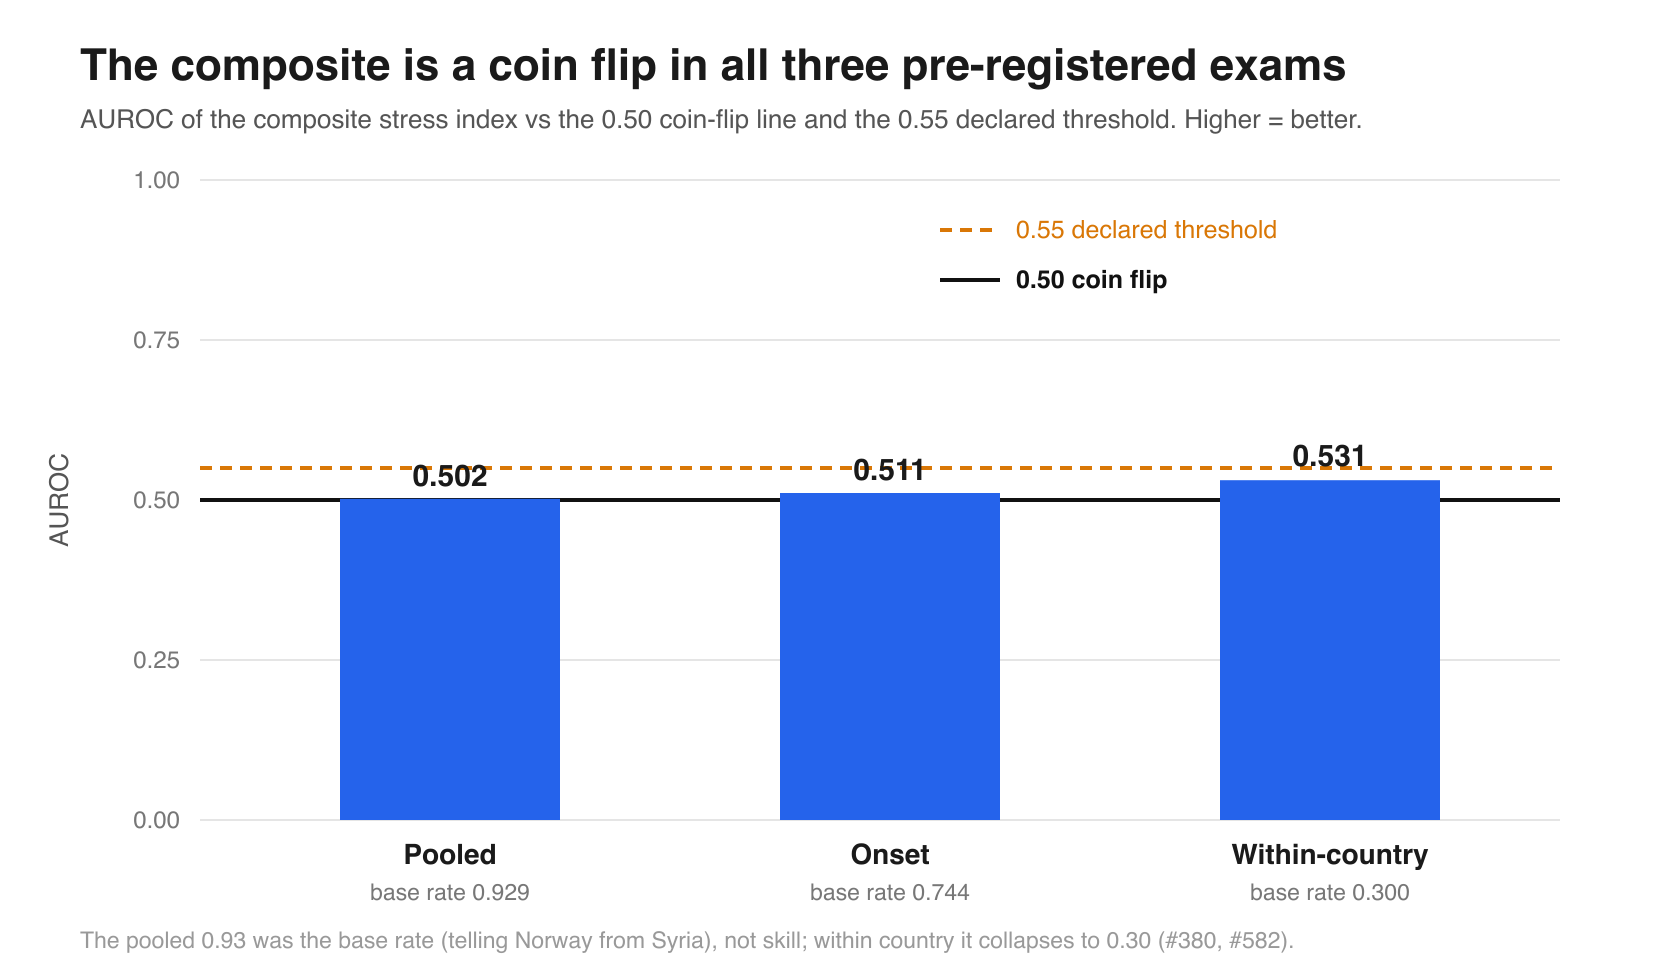
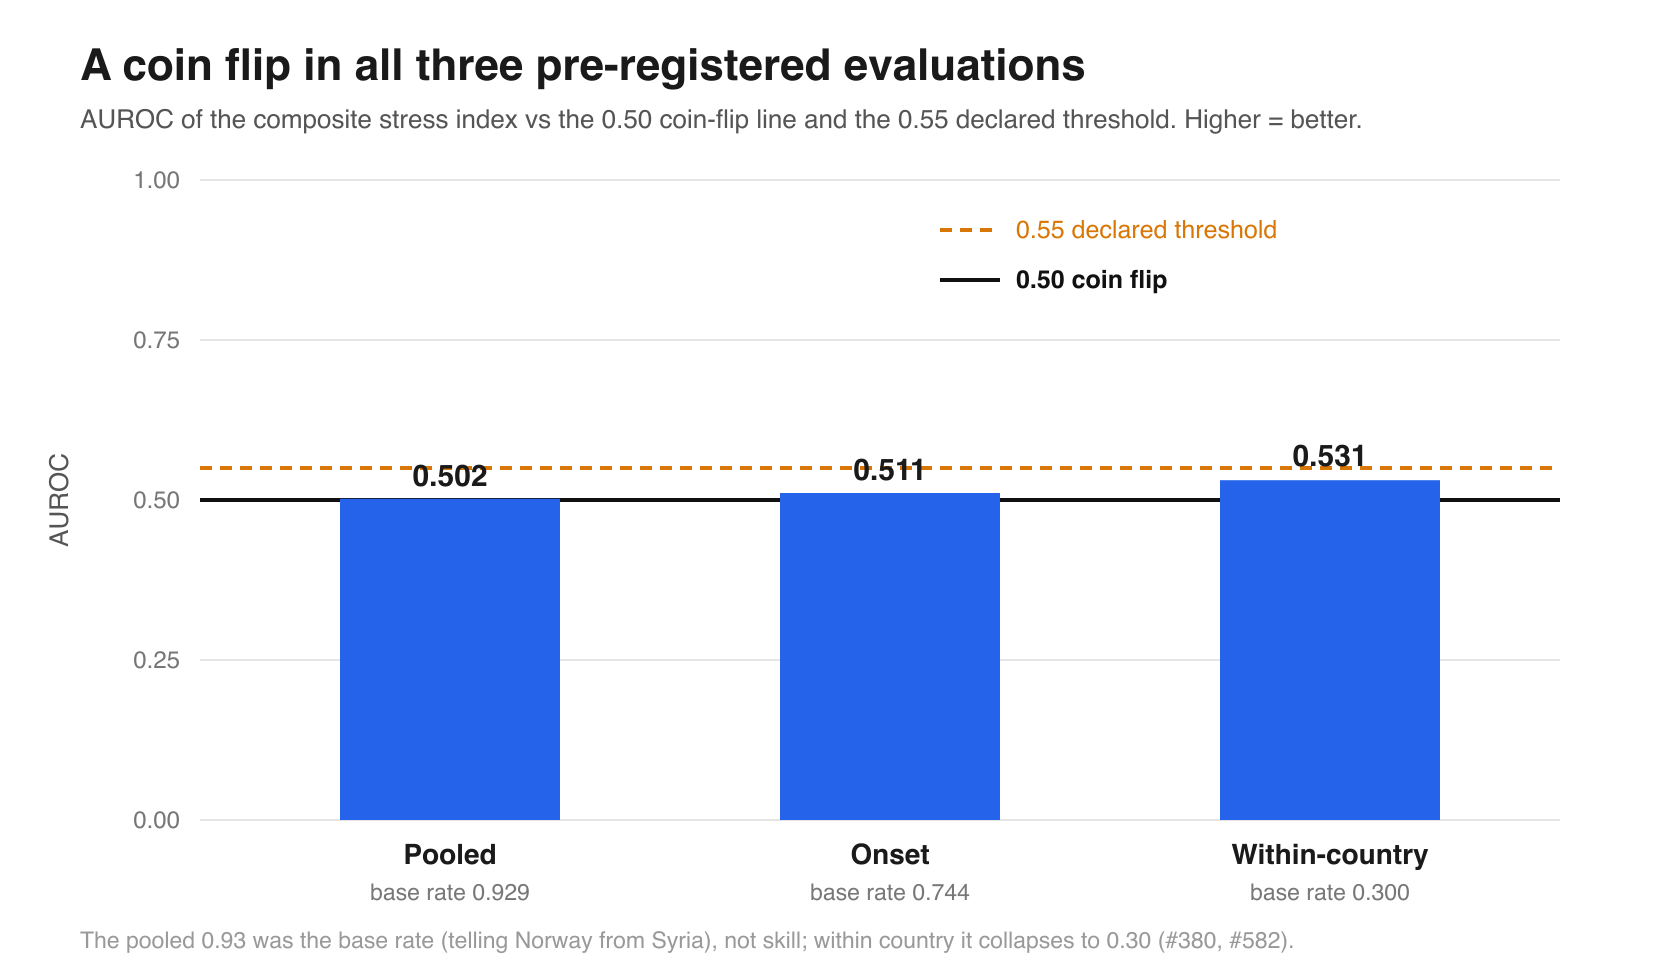
docs: #627 strip thesis/university/viva/deadline framing from the README
Reads as a systems project now, not a thesis appendix. Removed: MSc / PX5928 /
University of Aberdeen / supervisor / viva / 4000-word report / Week-5, Week-7,
28-August deadlines / thesis-grade rule / literature-review + Methods/Results
references. Reframed 'thesis' -> 'the project/claim' and academic 'exam' ->
'evaluation'; 'Equations the examiner will ask' -> 'Core equations'; 'SWOT
(viva defense)' -> 'SWOT'. Kept the composite claim, pre-registered evaluation
protocol, baselines B0-B8, ground truth, AUROC/Brier, and every published
negative. Chart titles/captions de-thesis'd and re-rendered.

Note: the HTTP User-Agent string 'OSINT-thesis-project (academic)' is left as-is
because it is a live value in app/sources code, not README prose.

Changed region(s): [[0.031, 0.0312, 0.8048, 0.0938]]

diff --git a/README.md b/README.md
@@ -1,8 +1,8 @@
 # OSINT — Multi-modal Early-Warning Dashboard
 
-> A self-hosted dashboard plus a **composite stress index** per country, fed by three independent open-data domains (market signals, geopolitical events, hazards). MSc thesis project (PX5928, University of Aberdeen, supervised by Marco Thiel) and a personal infrastructure project meant to run for years on a Raspberry Pi.
+> A self-hosted dashboard plus a **composite stress index** per country, fed by three independent open-data domains (market signals, geopolitical events, hazards). A personal infrastructure project meant to run for years on a Raspberry Pi.
 
-The thesis is one specific claim: **a composite of three heterogeneous OSINT signal domains discriminates later instability events better than the best single-domain baseline.** The dashboard, the Pi, the maps — they are the system that lets that claim be measured.
+The project is built around one specific claim: **a composite of three heterogeneous OSINT signal domains discriminates later instability events better than the best single-domain baseline.** The dashboard, the Pi, the maps — they are the system that lets that claim be measured.
 
 > **Status, plainly: the claim has been tested five times and failed every
 > time.** The composite does not discriminate better than the dumb baselines —
@@ -139,7 +139,7 @@ cd osint-frontend && pnpm dev
 
 The dashboard eats the world's open data all day: news feeds, earthquake
 sensors, satellites, market prices, conflict databases. The obvious question —
-the one a professor, an examiner or a customer asks first — is:
+the one an analyst or a customer asks first — is:
 
 > **"How do you know any of this is true, complete, and not just one loud
 > country's version of events?"**
@@ -216,7 +216,7 @@ We can't compute "truth", so we compute three honest proxies **per story**:
   `disagreement-v1.0` divergence (#370), rolled up per (country-pair, month)
   (#372) — first live board: RU|US at 0.832 mean over 11 co-told stories.
   Whether divergence *predicts* instability is under a pre-registered forward
-  exam (#374): divergence exposures enter the prediction journal daily and
+  evaluation (#374): divergence exposures enter the prediction journal daily and
   get graded like every other forecast — protocol frozen in
   `docs/disagreement-exam.md` before the first prediction was issued.
 - **Coverage bias (WS-D, done)** — the dashboard publishes its own blind
@@ -236,7 +236,7 @@ We can't compute "truth", so we compute three honest proxies **per story**:
    written BEFORE           composite on          the scoreboard
    any result exists)       2015-2022 only)       shows it in red)
 
-  2023-2024 = TEST WINDOW — locked, untouched, for the final exam.
+  2023-2024 = TEST WINDOW — locked, untouched, for the final held-out evaluation.
 ```
 
 - **Ground truth** comes from ACLED (human-validated conflict data),
@@ -246,7 +246,7 @@ We can't compute "truth", so we compute three honest proxies **per story**:
 - The current headline: with all three domains live, the composite scores
   **AUROC 0.502** against a per-country base rate of **0.929**. A coin flip —
   published, not hidden. The generous reading was that our index measures
-  *"is this country behaving unusually vs its own past?"* while the exam asks
+  *"is this country behaving unusually vs its own past?"* while the evaluation asks
   *"which countries have conflict at all?"* — so a second, pre-registered
   test restricted scoring to **onset months** (calm-before-the-storm cases,
   `docs/onset-eval.md`, #380). Verdict: **coin flip there too** (0.496–0.526
@@ -258,7 +258,7 @@ We can't compute "truth", so we compute three honest proxies **per story**:
   by construction. With 133 of 238 panel countries never labelled and 10
   labelled in ≥90% of months, a pooled metric is largely rewarded for telling
   Norway from Syria — which is where the ~0.93 base rate comes from. So a
-  third exam was pre-registered (`docs/within-country-eval.md`, #582) asking
+  third evaluation was pre-registered (`docs/within-country-eval.md`, #582) asking
   whether the composite ranks a country's **own** onset months above its
   **own** calm months. Verdict: **negative** — best 0.531 at k=6, below the
   declared 0.55 threshold, 95% CI [0.474, 0.582] containing 0.5. The
@@ -284,12 +284,12 @@ We can't compute "truth", so we compute three honest proxies **per story**:
 | WS-D coverage bias | attention-bias table | ✅ live on /coverage |
 | WS-E prediction journal | forward track record | ✅ live on /scoreboard |
 | GDELT backfill | third composite domain, 2014-2024 | ✅ done — fair test ran |
-| Onset exam | the composite's second pre-registered test | ✅ ran — coin flip again, honestly published (#380) |
-| Within-country exam | the composite's third, on the axis it was built for | ✅ ran — negative, 0.531 vs a declared 0.55 (#582) |
+| Onset evaluation | the composite's second pre-registered test | ✅ ran — coin flip again, honestly published (#380) |
+| Within-country evaluation | the composite's third, on the axis it was built for | ✅ ran — negative, 0.531 vs a declared 0.55 (#582) |
 | Source data audit | does each source's data mean what it claims | ✅ live — 50 findings across 47 sources (#580) |
 | WS-C corroboration | independent-owner counts + sensor cross-checks | ✅ live — corroboration-v1.0 on /stories (#365) |
-| WS-B disagreement index | cross-country telling divergence | ✅ live — index + pre-registered forward exam (#374) |
-| WS-F indicator ranking | which dashboard number predicts best | ✅ ranked — |hazard z| leads at 0.59 full-panel, but fades to ~0.53 on the fair onset exam and even beats the composite that contains it (#376, #573) |
+| WS-B disagreement index | cross-country telling divergence | ✅ live — index + pre-registered forward evaluation (#374) |
+| WS-F indicator ranking | which dashboard number predicts best | ✅ ranked — |hazard z| leads at 0.59 full-panel, but fades to ~0.53 on the fair onset evaluation and even beats the composite that contains it (#376, #573) |
 | WS-G local AI checker | Ollama claim extraction w/ measured error rate | 🔨 machinery done (#386) — awaiting Basil's filled audit sheet |
 
 The living log of all of this is pinned issue
@@ -790,7 +790,7 @@ afterwards, graded automatically once reality catches up. The columns:
 "predict randomly", "predict yesterday's weather", "predict each country's
 long-run average". The published result, stated plainly: **the composite has
 not yet beaten the dumb rivals** (AUROC ≈ 0.5 = coin flip, on both the
-ordinary exam and the pre-registered onset exam). That negative is published
+ordinary evaluation and the pre-registered onset evaluation). That negative is published
 on purpose — it is what makes every other number here credible, and the
 per-indicator decomposition (`make indicator-ranking`) shows where the
 recoverable signal lives for the next version.
@@ -825,7 +825,7 @@ public, currently honest about not winning yet. Read them in that order.
 
 # Reference shelf
 
-*The deep material — architecture, domains, pipeline, thesis protocol.*
+*The deep material — architecture, domains, pipeline, evaluation protocol.*
 
 > **The diagrams below describe the _target_ production shape, not what runs
 > today.** The live system is a single box, Postgres-only: the Raspberry Pi 5 +
@@ -961,7 +961,7 @@ flowchart LR
     subgraph OUT["Outputs"]
         DASH[Next.js dashboard<br/>MapLibre GL]
         PHONE[Pushover<br/>phone alert]
-        THESIS[Thesis report<br/>AUROC / AUPR / Brier]
+        EVAL[Evaluation report<br/>AUROC / AUPR / Brier]
     end
 
     S1 & S2 & S3 --> W
@@ -971,10 +971,10 @@ flowchart LR
     COMP --> DB
     DB --> DASH
     COMP --> PHONE
-    AR --> THESIS
+    AR --> EVAL
 ```
 
-Three sources in. One pipeline. Three outputs: a live dashboard you can pull up on your phone, an alert when a country crosses a threshold, and a thesis report at the end.
+Three sources in. One pipeline. Three outputs: a live dashboard you can pull up on your phone, an alert when a country crosses a threshold, and an evaluation report at the end.
 
 ---
 
@@ -983,15 +983,15 @@ Three sources in. One pipeline. Three outputs: a live dashboard you can pull up 
 | Question | Answer |
 |---|---|
 | **What is it?** | A small early-warning dashboard. It watches three kinds of open data — markets, geopolitical news events, and natural hazards — and combines them into a single number per country that goes up when things look stressed. |
-| **Why these three?** | Marco's brief says "must not depend on a single data source." Three independent domains keep the score honest: if only one domain spikes, the composite stays calm. If multiple domains spike together, the composite goes red. |
-| **What is it for?** | (a) **Thesis** — prove that this multi-modal composite is better at flagging real instability events than just watching one domain on its own. (b) **Personal** — a self-hosted situational-awareness tool that keeps running after the thesis is submitted. |
+| **Why these three?** | The design brief: "must not depend on a single data source." Three independent domains keep the score honest: if only one domain spikes, the composite stays calm. If multiple domains spike together, the composite goes red. |
+| **What is it for?** | (a) **The claim** — test whether this multi-modal composite is better at flagging real instability events than watching one domain alone. (b) **Personal** — a self-hosted situational-awareness tool that keeps running indefinitely. |
 | **What is NOT it?** | Not a prediction system. Not Palantir. Not Shadowbroker. Not finance-only. Does not claim to predict specific events. Does not use private intelligence feeds. |
 
 ---
 
 ## Three input domains
 
-The thesis defends a composite over **three domains**, not finance alone, not GDELT alone.
+The system tests a composite over **three domains**, not finance alone, not GDELT alone.
 
 ```mermaid
 flowchart LR
@@ -1029,7 +1029,7 @@ flowchart LR
 | **D** | Composite | JRC handbook 10-step methodology | [`docs/methodology.md`](docs/methodology.md#part-b--literature-baseline) |
 | **E** | Evaluation | Pre-registered AUROC / AUPR / Brier vs ground truth | [`docs/methodology.md`](docs/methodology.md#part-a--evaluation-protocol-pre-registered) |
 
-Layer 3 feeds (satellites, news RSS, aviation, maritime, weather, mesh) sit on the dashboard for situational awareness only. They **do not enter the composite or the thesis evaluation**. See the [feed taxonomy](docs/architecture/01-overview.md#feed-taxonomy) for the full list.
+Layer 3 feeds (satellites, news RSS, aviation, maritime, weather, mesh) sit on the dashboard for situational awareness only. They **do not enter the composite or the evaluation**. See the [feed taxonomy](docs/architecture/01-overview.md#feed-taxonomy) for the full list.
 
 ---
 
@@ -1097,7 +1097,7 @@ The labels live in their own database table, kept strictly separate from input e
 
 ---
 
-## Thesis loop — how the claim gets proven
+## Evaluation loop — how the claim gets tested
 
 ```mermaid
 flowchart TD
@@ -1108,13 +1108,12 @@ flowchart TD
     SPLIT -->|2015-2021| TRAIN[Train composite weights]
     SPLIT -->|2022| VAL[Tune hyperparameters]
     SPLIT -->|2023-2024| TEST[Held-out final evaluation]
-    TRAIN --> LOCK[Lock methodology v1.0<br/>with Marco · Week 5]
+    TRAIN --> LOCK[Lock methodology v1.0]
     LOCK --> RUN[Run 9 baselines<br/>B0..B8]
     VAL --> RUN
     RUN --> METRICS[AUROC · AUPR · Brier · lead-time]
     TEST --> METRICS
-    METRICS --> REPORT[Thesis report<br/>4000 words]
-    REPORT --> VIVA[Viva exam]
+    METRICS --> REPORT[Evaluation report]
 ```
 
 Nine baselines compete:
@@ -1127,11 +1126,11 @@ Nine baselines compete:
 | B3 | Geo only | Module B score alone |
 | B4 | Market only | Module A score alone |
 | B5 | Hazard only | Module C score alone |
-| B6 | Composite (equal weights) | The headline thesis claim |
+| B6 | Composite (equal weights) | The headline claim |
 | B7 | Composite (PCA weights) | Alternative weighting |
 | B8 | Composite (geometric mean) | Less-compensatory aggregation |
 
-For the thesis to land its primary claim, **B6 (or B7, or B8) must beat each of B3, B4, B5** on both AUROC and AUPR on the held-out test set. If it doesn't, the thesis says so honestly — pre-registered protocols make negative results respectable.
+For the composite to land its primary claim, **B6 (or B7, or B8) must beat each of B3, B4, B5** on both AUROC and AUPR on the held-out test set. If it doesn't, the system says so honestly — pre-registered protocols make negative results respectable.
 
 ---
 
@@ -1156,9 +1155,9 @@ Full reasoning: [`docs/architecture/`](docs/architecture/) sections 01-07.
 
 ---
 
-## Layer 3 — dashboard breadth (not in thesis)
+## Layer 3 — dashboard breadth (not in the evaluation)
 
-Sits on the dashboard for situational awareness, **not** in the composite, **not** in the evaluation, **not** in the thesis Methods or Results chapters. Single Discussion paragraph + appendix table in the thesis. Grows freely after 28 August.
+Sits on the dashboard for situational awareness only — **not** in the composite, **not** in the evaluation.
 
 Live as of the latest source-expansion batch — **58 collectors** (14 named
 fetchers + 44 RSS feeds; see §3.1 for the authoritative cadence table):
@@ -1169,8 +1168,6 @@ fetchers + 44 RSS feeds; see §3.1 for the authoritative cadence table):
 - **Prediction markets** — Polymarket public Gamma API (#165). 30 min cadence. Severity reads as "tail-event awareness" (peaks at p = 0.5).
 - **Crime** — UK Police data.police.uk monthly snapshots.
 - **Hazard / geo / market (Layer 1+2)** — yfinance, FRED, GDELT, USGS, GDACS, FIRMS, EONET.
-
-**Hard rule** ([`docs/architecture/07-risks.md`](docs/architecture/07-risks.md#schedule-risks)): no Layer 3 worker is merged after end of Week 7. Layer 3 PRs that arrive after that are closed without merge. This rule is load-bearing for the thesis grade — every Layer 3 hour after Week 7 is an hour stolen from writing or viva prep.
 
 ## Enrichment + analytics on the rows
 
@@ -1190,13 +1187,13 @@ CII v1.1 country-instability scoring runs hourly across the 31 Tier-1 countries.
 ## Documentation index
 
 - **[`docs/storage.md`](docs/storage.md)** — local storage & data: `OSINT_DATA_DIR`, where the live DB lives vs backups vs the config pointer, retention, move/back-up/restore/wipe
-- **[`docs/requirements.md`](docs/requirements.md)** — PX5928 university spec, group context, three-layer scope analysis, deliverable checklist
+- **[`docs/requirements.md`](docs/requirements.md)** — system requirements spec, three-layer scope analysis, deliverable checklist
 - **[`docs/methodology.md`](docs/methodology.md)**
   - Part A — pre-registered evaluation protocol (ground truth, splits, baselines, metrics, sensitivity, reporting checklist)
   - Part B — literature baseline (citations, reading priority, BibTeX snippets)
 - **[`docs/project-direction.md`](docs/project-direction.md)** — what the project is, who it serves, why it matters, and the long-term product / research path
 - **[`docs/analytical-agenda.md`](docs/analytical-agenda.md)** — the WS-A…G workstreams: what we actually do with the data (quantify, validate, predict)
-- **The three pre-registered exams** — [`docs/onset-eval.md`](docs/onset-eval.md), [`docs/within-country-eval.md`](docs/within-country-eval.md), [`docs/disagreement-exam.md`](docs/disagreement-exam.md), each frozen before its first result
+- **The three pre-registered evaluations** — [`docs/onset-eval.md`](docs/onset-eval.md), [`docs/within-country-eval.md`](docs/within-country-eval.md), [`docs/disagreement-exam.md`](docs/disagreement-exam.md), each frozen before its first result
 - **[`docs/data-coverage.md`](docs/data-coverage.md)** · **[`docs/acled-non-api-collection.md`](docs/acled-non-api-collection.md)** · **[`docs/security.md`](docs/security.md)**
 - **[`docs/backtest/`](docs/backtest/)** — lead-time gate reports · **[`docs/audits/`](docs/audits/)** — clustering-threshold hand-check · **[`docs/frontend/`](docs/frontend/)** — dashboard design notes
 - **[`docs/architecture/`](docs/architecture/)** — seven-section build spec, all sections drafted:
@@ -1208,15 +1205,15 @@ CII v1.1 country-instability scoring runs hourly across the 31 Tier-1 countries.
 
 ## Inspirations and lineage
 
-- **Architectural inspiration only (not cited in thesis literature review)**: [Shadowbroker](https://github.com/BigBodyCobain/Shadowbroker), WorldMonitor
+- **Architectural inspiration only**: [Shadowbroker](https://github.com/BigBodyCobain/Shadowbroker), WorldMonitor
 - **Methodology lineage (cited)**: OECD/JRC Composite Indicator Handbook (Nardo et al., 2008), ViEWS (Hegre et al., 2019), CEWS field review (Davies et al., 2023), FSI methodology (Fund for Peace), GDELT validity critiques (Wang 2025, Wallace 2014, Öberg & Yilmaz 2025), FinBERT honesty (Yang et al., 2024). Full list with reading priority in [`docs/methodology.md`](docs/methodology.md#part-b--literature-baseline).
 
 ---
 
-## Equations the examiner will ask
+## Core equations
 
-Every formula below is the one actually in the code, with its file. Learn the
-first six; the rest are standard definitions.
+Every formula below is the one actually in the code, with its file. The first
+six are the ones that matter; the rest are standard definitions.
 
 ### 1. Within-country rolling z-score — [`app/composite/normalization.py`](app/composite/normalization.py)
 
@@ -1224,7 +1221,7 @@ Each domain's raw severity is standardised against *that country's own* trailing
 
 $$z_t = \frac{x_t - \mu_{[t-w,\,t)}}{\sigma_{[t-w,\,t)}}$$
 
-A minimum history (≥3 monthly points) is required; cold starts and zero-variance windows emit $z=0$. **This is the crux of the whole thesis:** the score carries no cross-country level, only "unusual vs its own past" — which is why a pooled AUROC (0.93 base rate) was the wrong ruler and the within-country exam (base rate 0.30) was the right one.
+A minimum history (≥3 monthly points) is required; cold starts and zero-variance windows emit $z=0$. **This is the crux of the whole approach:** the score carries no cross-country level, only "unusual vs its own past" — which is why a pooled AUROC (0.93 base rate) was the wrong ruler and the within-country evaluation (base rate 0.30) was the right one.
 
 ### 2. Composite aggregation — [`app/composite/scoring.py`](app/composite/scoring.py)
 
@@ -1268,9 +1265,9 @@ $b$ = per-country baseline, $e$ = event aggregate over unrest $u$, conflict $c$,
 
 ---
 
-## SWOT (viva defense)
+## SWOT
 
-Framed for the examiner, not a product pitch — and logged here so it stays with the code.
+A candid read of where the project stands — logged here so it stays with the code.
 
 | | Helpful | Harmful |
 |---|---|---|
@@ -1284,16 +1281,16 @@ Framed for the examiner, not a product pitch — and logged here so it stays wit
 
 **Weaknesses**
 - The headline claim **failed**: the composite does not beat the dumb baselines on any of the three pre-registered exams.
-- Single developer, heavily AI-assisted → depth-of-understanding is the real exam risk (this document and §"Equations" are the mitigation).
+- Single developer, heavily AI-assisted → depth-of-understanding of the internals is the real risk (this document and §Core equations are the mitigation).
 - The live composite is currently degenerate (0.5) from the retention-vs-z-score mismatch (#586); ACLED ground-truth labels are manually maintained.
 
 **Opportunities**
 - **Slow-onset hazards** (drought, flood, sustained unrest) are the untested anchor where a sensor could plausibly lead coverage — the open question, not a settled failure.
-- Productization path (newsletter → API → app, #400); the corroboration + coverage engine works *today* and has standalone value independent of the thesis claim.
-- If any signal is recoverable it is in the hazard domain — the strongest single indicator (|hazard z| ≈ 0.59 full-panel), which even beats the composite that contains it (#573). The open task is making it survive the fair onset exam, where it currently fades to ~0.53.
+- Productization path (newsletter → API → app, #400); the corroboration + coverage engine works *today* and has standalone value independent of the composite claim.
+- If any signal is recoverable it is in the hazard domain — the strongest single indicator (|hazard z| ≈ 0.59 full-panel), which even beats the composite that contains it (#573). The open task is making it survive the fair onset evaluation, where it currently fades to ~0.53.
 
 **Threats**
-- The examiner attacks the within-country construction, the 0.5 degeneracy, and "how much did you build vs the AI."
+- The sharpest challenges to answer: the within-country construction, the 0.5 degeneracy, and "how much was built by hand vs the AI."
 - Upstream drift: GDELT gaps, ACLED API rejection, RSS format changes, FIRMS confidence ≠ intensity.
 - The retention window vs evaluation needs (the #586 class of bug) can silently flatten a signal before it is measured.
 
@@ -1307,7 +1304,7 @@ Rendered assets live in [`docs/supplementary/`](docs/supplementary/) as **SVG** 
 
 ![Composite AUROC across the three pre-registered exams](docs/supplementary/auroc-vs-exams.png)
 
-**Why "signal before narrative" is the whole bet** — sensors are cheap and high-volume, narrative is scarce and expensive; the thesis asks whether the first moves before the second.
+**Why "signal before narrative" is the whole bet** — sensors are cheap and high-volume, narrative is scarce and expensive; the question is whether the first moves before the second.
 
 ![Rows held per source, sensors vs narrative, log scale](docs/supplementary/sensor-vs-narrative-volume.png)
 
